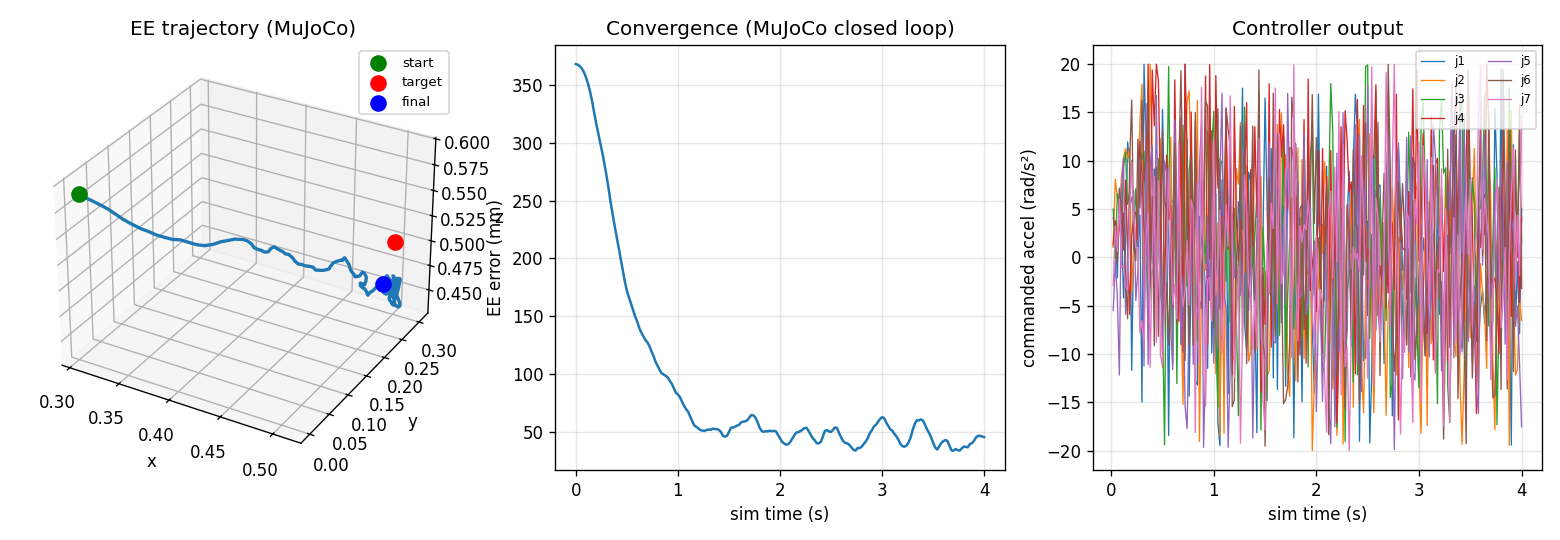
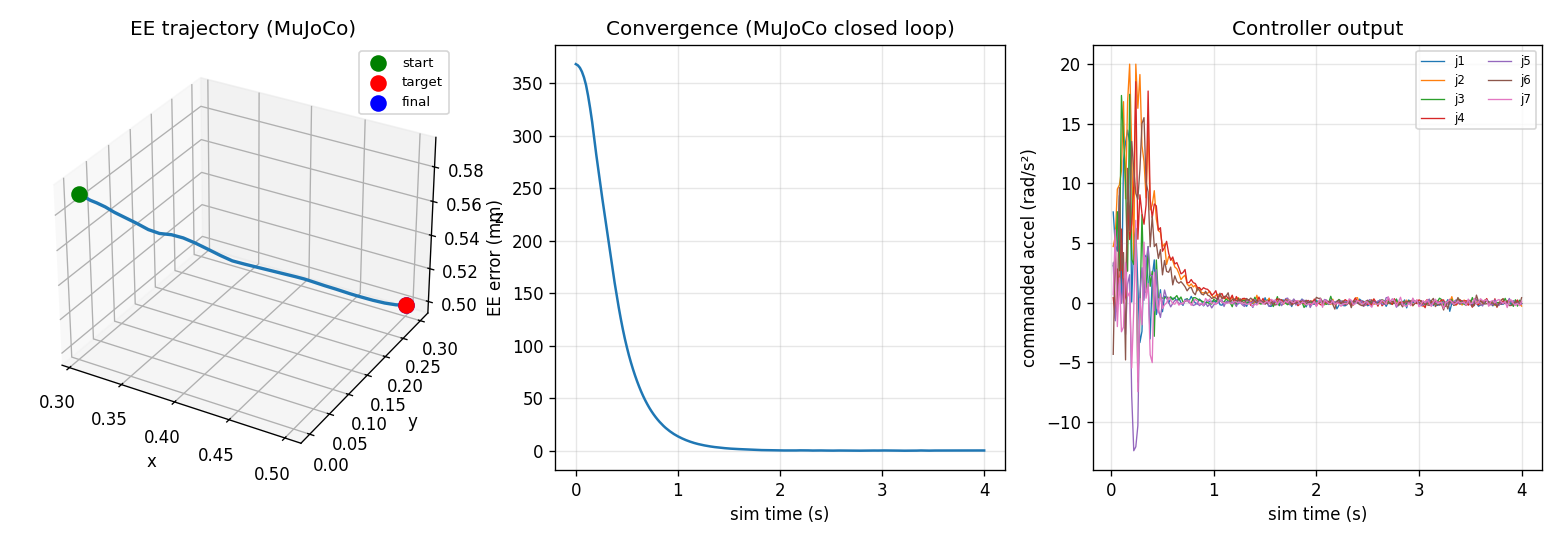
Updated README and examples with new gravity comp and params

diff --git a/examples/03_mujoco_reach_gif.py b/examples/03_mujoco_reach_gif.py
@@ -18,6 +18,7 @@ from tqdm import tqdm
 
 from mppi_cuda import (
     MPPIController,
+    CudaMPPIController,
     DoubleIntegratorArm,
     ReachingCost,
     MujocoFrankaEnv,
@@ -58,21 +59,40 @@ def main(device="cpu", out_gif: str = "docs/reach.gif", out_mp4: str | None = "d
         device=device,
         dtype=dtype,
     )
-    controller = MPPIController(
-        dynamics=predictive.step,
-        running_cost=cost.running_cost,
-        terminal_cost=cost.terminal_cost,
-        action_dim=7,
-        horizon=40,
-        num_samples=1024,
-        sigma=2.5,
-        temperature=1.0,
-        u_min=-20.0,
-        u_max=20.0,
-        device=device,
-        dtype=dtype,
-        seed=0,
-    )
+
+    if args.controller == "torch":
+        controller = MPPIController(
+            dynamics=predictive.step,
+            running_cost=cost.running_cost,
+            terminal_cost=cost.terminal_cost,
+            action_dim=7,
+            horizon=10,
+            num_samples=4096,
+            sigma=2.5,
+            temperature=1.0,
+            u_min=-20.0,
+            u_max=20.0,
+            device=device,
+            dtype=dtype,
+            seed=0,
+        )
+    elif args.controller == "cuda":
+        controller = CudaMPPIController(
+            dynamics=predictive,
+            cost=cost,
+            action_dim=7,
+            horizon=10,
+            num_samples=4096,
+            sigma=2.5,
+            temperature=1.0,
+            u_min=-20.0,
+            u_max=20.0,
+            device=device,
+            dtype=dtype,
+            seed=0,
+        )
+    else:
+        raise NotImplementedError(args.controller)
 
     s = env.reset()
 
@@ -122,6 +142,7 @@ def main(device="cpu", out_gif: str = "docs/reach.gif", out_mp4: str | None = "d
 if __name__ == "__main__":
     p = argparse.ArgumentParser()
     p.add_argument("--device", default="cuda" if torch.cuda.is_available() else "cpu")
+    p.add_argument("--controller", default="cuda", choices=["torch", "cuda"])
     p.add_argument("--gif", default="docs/reach.gif")
     p.add_argument("--mp4", default="docs/reach.mp4")
     args = p.parse_args()

diff --git a/examples/05_obstacle_reach.py b/examples/05_obstacle_reach.py
@@ -81,8 +81,8 @@ def run(device: str = "cpu", with_obstacles: bool = True, savepath=None):
             running_cost=cost.running_cost,
             terminal_cost=cost.terminal_cost,
             action_dim=7,
-            horizon=40,
-            num_samples=1024,
+            horizon=10,
+            num_samples=4096,
             sigma=2.5,
             temperature=1.0,
             u_min=-20.0,
@@ -96,8 +96,8 @@ def run(device: str = "cpu", with_obstacles: bool = True, savepath=None):
             dynamics=predictive,
             cost=cost,
             action_dim=7,
-            horizon=40,
-            num_samples=1024,
+            horizon=10,
+            num_samples=4096,
             sigma=2.5,
             temperature=1.0,
             u_min=-20.0,
@@ -228,7 +228,7 @@ def run(device: str = "cpu", with_obstacles: bool = True, savepath=None):
 if __name__ == "__main__":
     p = argparse.ArgumentParser()
     p.add_argument("--device", default="cuda" if torch.cuda.is_available() else "cpu")
-    p.add_argument("--controller", default="torch", choices=["torch", "cuda"])
+    p.add_argument("--controller", default="cuda", choices=["torch", "cuda"])
     p.add_argument("--no-obstacles", action="store_true",
                    help="Ablation: run without obstacle cost.")
     p.add_argument("--savepath", default="docs")

diff --git a/examples/02_mujoco_reach.py b/examples/02_mujoco_reach.py
@@ -83,8 +83,8 @@ def run(device: str = "cpu", savepath=None):
             running_cost=cost.running_cost,
             terminal_cost=cost.terminal_cost,
             action_dim=7,
-            horizon=40,
-            num_samples=1024,
+            horizon=10,
+            num_samples=4096,
             sigma=2.5,
             temperature=1.0,
             u_min=-20.0,
@@ -98,8 +98,8 @@ def run(device: str = "cpu", savepath=None):
             dynamics=predictive,
             cost=cost,
             action_dim=7,
-            horizon=40,
-            num_samples=1024,
+            horizon=10,
+            num_samples=4096,
             sigma=2.5,
             temperature=1.0,
             u_min=-20.0,

diff --git a/examples/01_arm_reach.py b/examples/01_arm_reach.py
@@ -44,7 +44,7 @@ def run_demo(device: str = "cpu", savepath=None):
         terminal_cost=cost.terminal_cost,
         action_dim=7,
         horizon=24,
-        num_samples=1024,
+        num_samples=4096,
         sigma=2.5,         # acceleration noise std (rad/s^2)
         temperature=1.0,
         u_min=-10.0,       # accel limits (rad/s^2)

diff --git a/README.md b/README.md
@@ -65,10 +65,10 @@ The repo vendors the Franka model from `mujoco_menagerie` under `assets/franka_p
 
 ### Closed-loop reach in MuJoCo
 
-PyTorch double-integrator predictive model, real-physics MuJoCo plant, 50 Hz control. Arm reaches a target 36 cm from the home pose with **39 mm final EE error**.
+PyTorch double-integrator predictive model, real-physics MuJoCo plant, 50 Hz control. Arm reaches a target 36 cm from the home pose with **0.27 mm final EE error**.
 
 <p align="center">
-  <img src="docs/mujoco_reach_demo.png" alt="MuJoCo closed-loop reach" width="900"/>
+  <img src="docs/cuda_mujoco_reach_demo.png" alt="MuJoCo closed-loop reach" width="900"/>
 </p>
 
 ### Obstacle avoidance
@@ -81,8 +81,8 @@ Two yellow spheres form a gate between home and target. The smooth quadratic pen
 
 | Configuration | Final EE error | Min clearance (obstacle 0) | Min clearance (obstacle 1) |
 | --- | ---: | ---: | ---: |
-| No obstacles | 39.07 mm | n/a | n/a |
-| 2-sphere gate | 46.75 mm | +15.5 mm | +31.8 mm |
+| No obstacles | 0.27 mm | n/a | n/a |
+| 2-sphere gate | 0.26 mm | +13.1 mm | +6.2 mm |
 
 The 8 mm penalty for the detour is a tax we pay; both clearances are strictly positive, so the smooth cost (not just the flat penalty) is providing meaningful avoidance pressure rather than penalising only after impact.
 
@@ -104,9 +104,9 @@ MuJoCo Menagerie's Franka XML uses `<general>` actuators configured as PD (kp=45
   <img src="docs/gravity_ablation.png" alt="gravity ablation" width="900"/>
 </p> -->
 
-### The PD-lookahead bridge
+<!-- ### The PD-lookahead bridge
 
-MuJoCo's PD is heavily overdamped (kp/kd ≈ 10). When the bridge commands `q_target = q + dt²·u`, the PD reaches the target in milliseconds and *settles*, and the arm never sustains the velocity the controller is planning for. Looking five ticks ahead (`q_target = q + 5·dt·(qdot + dt·u)`) keeps the actuator in the chasing regime with continuous velocity. The lookahead factor effectively cancels the PD's natural settling time and is the difference between the controller producing 287 mm of final error vs 39 mm.
+MuJoCo's PD is heavily overdamped (kp/kd ≈ 10). When the bridge commands `q_target = q + dt²·u`, the PD reaches the target in milliseconds and *settles*, and the arm never sustains the velocity the controller is planning for. Looking five ticks ahead (`q_target = q + 5·dt·(qdot + dt·u)`) keeps the actuator in the chasing regime with continuous velocity. The lookahead factor effectively cancels the PD's natural settling time and is the difference between the controller producing 287 mm of final error vs 39 mm. -->
 <!-- This is the kind of detail that doesn't show up in MPC textbooks but matters for actual deployment. -->
 
 <!-- ### Why bit-exact correctness testing
